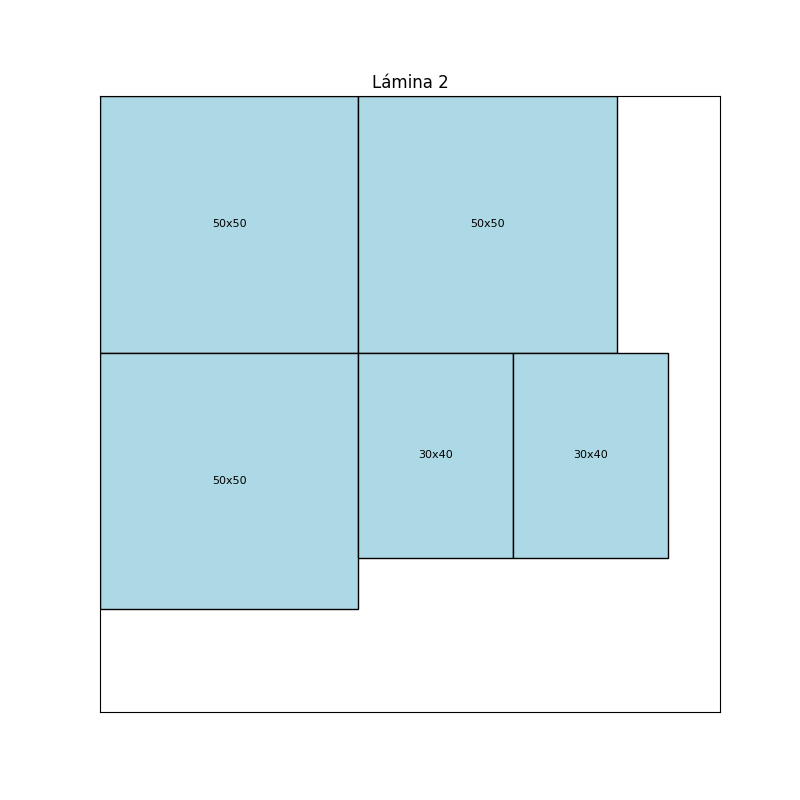
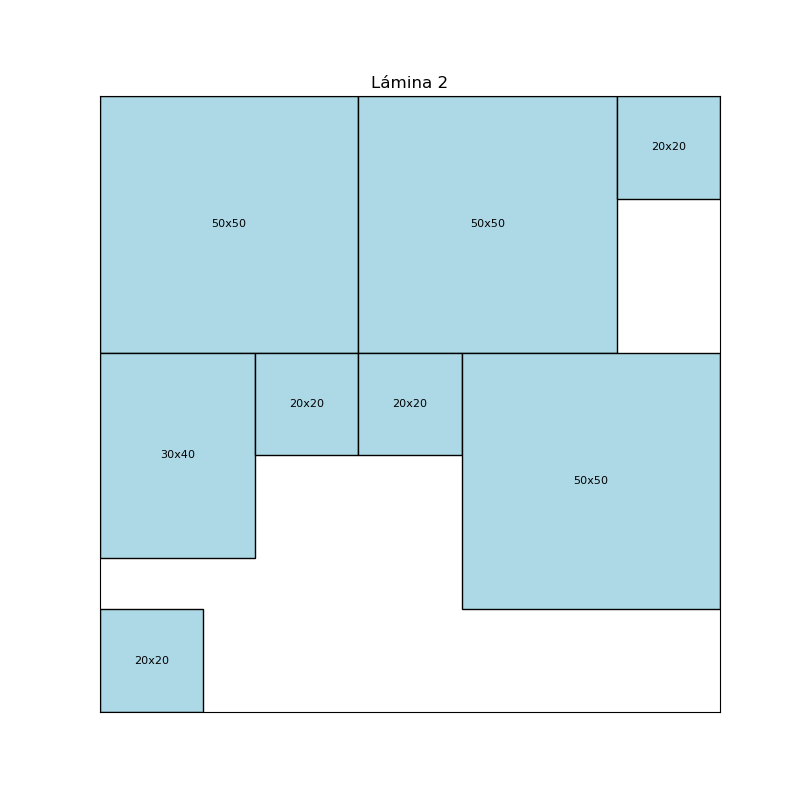
previo al cambio de metodo de cruza y formacion de parejas

diff --git a/mine/versions/v1/GeneticAlgorithm.py b/mine/versions/v1/GeneticAlgorithm.py
@@ -42,12 +42,11 @@ class GeneticAlgorithm:
         population = self.generations[-1]  # Última generación
         parents = []
 
-        # sorted_population = sorted(population, key=lambda ind: ind.fitness, reverse=True)
-        shuffled_population = random.sample(population, len(population))
+        sorted_population = sorted(population, key=lambda ind: ind.fitness, reverse=True)
 
-        for i in range(0, len(shuffled_population) - 1, 2):
-            parent1 = shuffled_population[i]
-            parent2 = shuffled_population[i + 1]
+        for i in range(0, len(sorted_population) - 1, 2):
+            parent1 = sorted_population[i]
+            parent2 = sorted_population[i + 1]
 
             cut_point = random.randint(1, len(parent1.pieces) - 1)  # Punto de corte aleatorio
 
@@ -102,29 +101,12 @@ class GeneticAlgorithm:
                     if random.random() < self.mutation_rate:
                         piece.width, piece.height = piece.height, piece.width  # Rotar la pieza
                         piece.rotated = not piece.rotated
-                    subject.place_pieces()
-                    
+                        subject.place_pieces()
 
     def prune(self):
-        """Reduce la población al tamaño original manteniendo el 20% de los mejores individuos y el 80% aleatorio."""
-        population = self.generations[-1]
-        population_size = self.population_size
-        
-        # Determinar cuántos individuos mantener por elitismo (20%)
-        elite_count = max(1, int(0.2 * population_size))  # Asegura al menos 1 individuo elite
-        random_count = population_size - elite_count  # El resto será aleatorio
-
-        # Ordenar la población por fitness (mejores primero)
-        sorted_population = sorted(population, key=lambda ind: ind.fitness, reverse=True)
-
-        # Seleccionar los mejores (elitismo)
-        elite_individuals = sorted_population[:elite_count]
-
-        # Seleccionar el resto aleatoriamente del total de la población (sin importar fitness)
-        random_individuals = random.sample(population, random_count)
-
-        # Nueva generación con mezcla de élite y aleatorio
-        self.generations[-1] = elite_individuals + random_individuals
+        """Reduce la población al tamaño original manteniendo los mejores individuos."""
+        sorted_subjects = sorted(self.generations[-1], key=lambda ind: ind.fitness, reverse=True)  # Ordenar por fitness
+        self.generations[-1] = sorted_subjects[:self.population_size]  # Mantener los mejores
 
     def start(self):
         self.set_first_generation()
@@ -146,7 +128,7 @@ lamina_base = (120, 120)
 piezas = [Piece(50, 50) for _ in range(10)] + [Piece(20, 20) for _ in range(10)] +  [Piece(30, 40) for _ in range(10)]
 
 # Crear algoritmo genético con 10 individuos y 50 generaciones
-ga = GeneticAlgorithm(population_size=100, n_generations=1000, base_plate=lamina_base, pieces=piezas, crossover_rate=0.6, mutation_rate=0.5)
+ga = GeneticAlgorithm(population_size=50, n_generations=500, base_plate=lamina_base, pieces=piezas, crossover_rate=0.6, mutation_rate=0.5)
 
 ga.start()
 

diff --git a/mine/versions/v1/Piece.py b/mine/versions/v1/Piece.py
@@ -9,4 +9,3 @@ class Piece:
 
     def __repr__(self):
         return f"({self.x},{self.y}) ({self.width}x{self.height})"
-    
